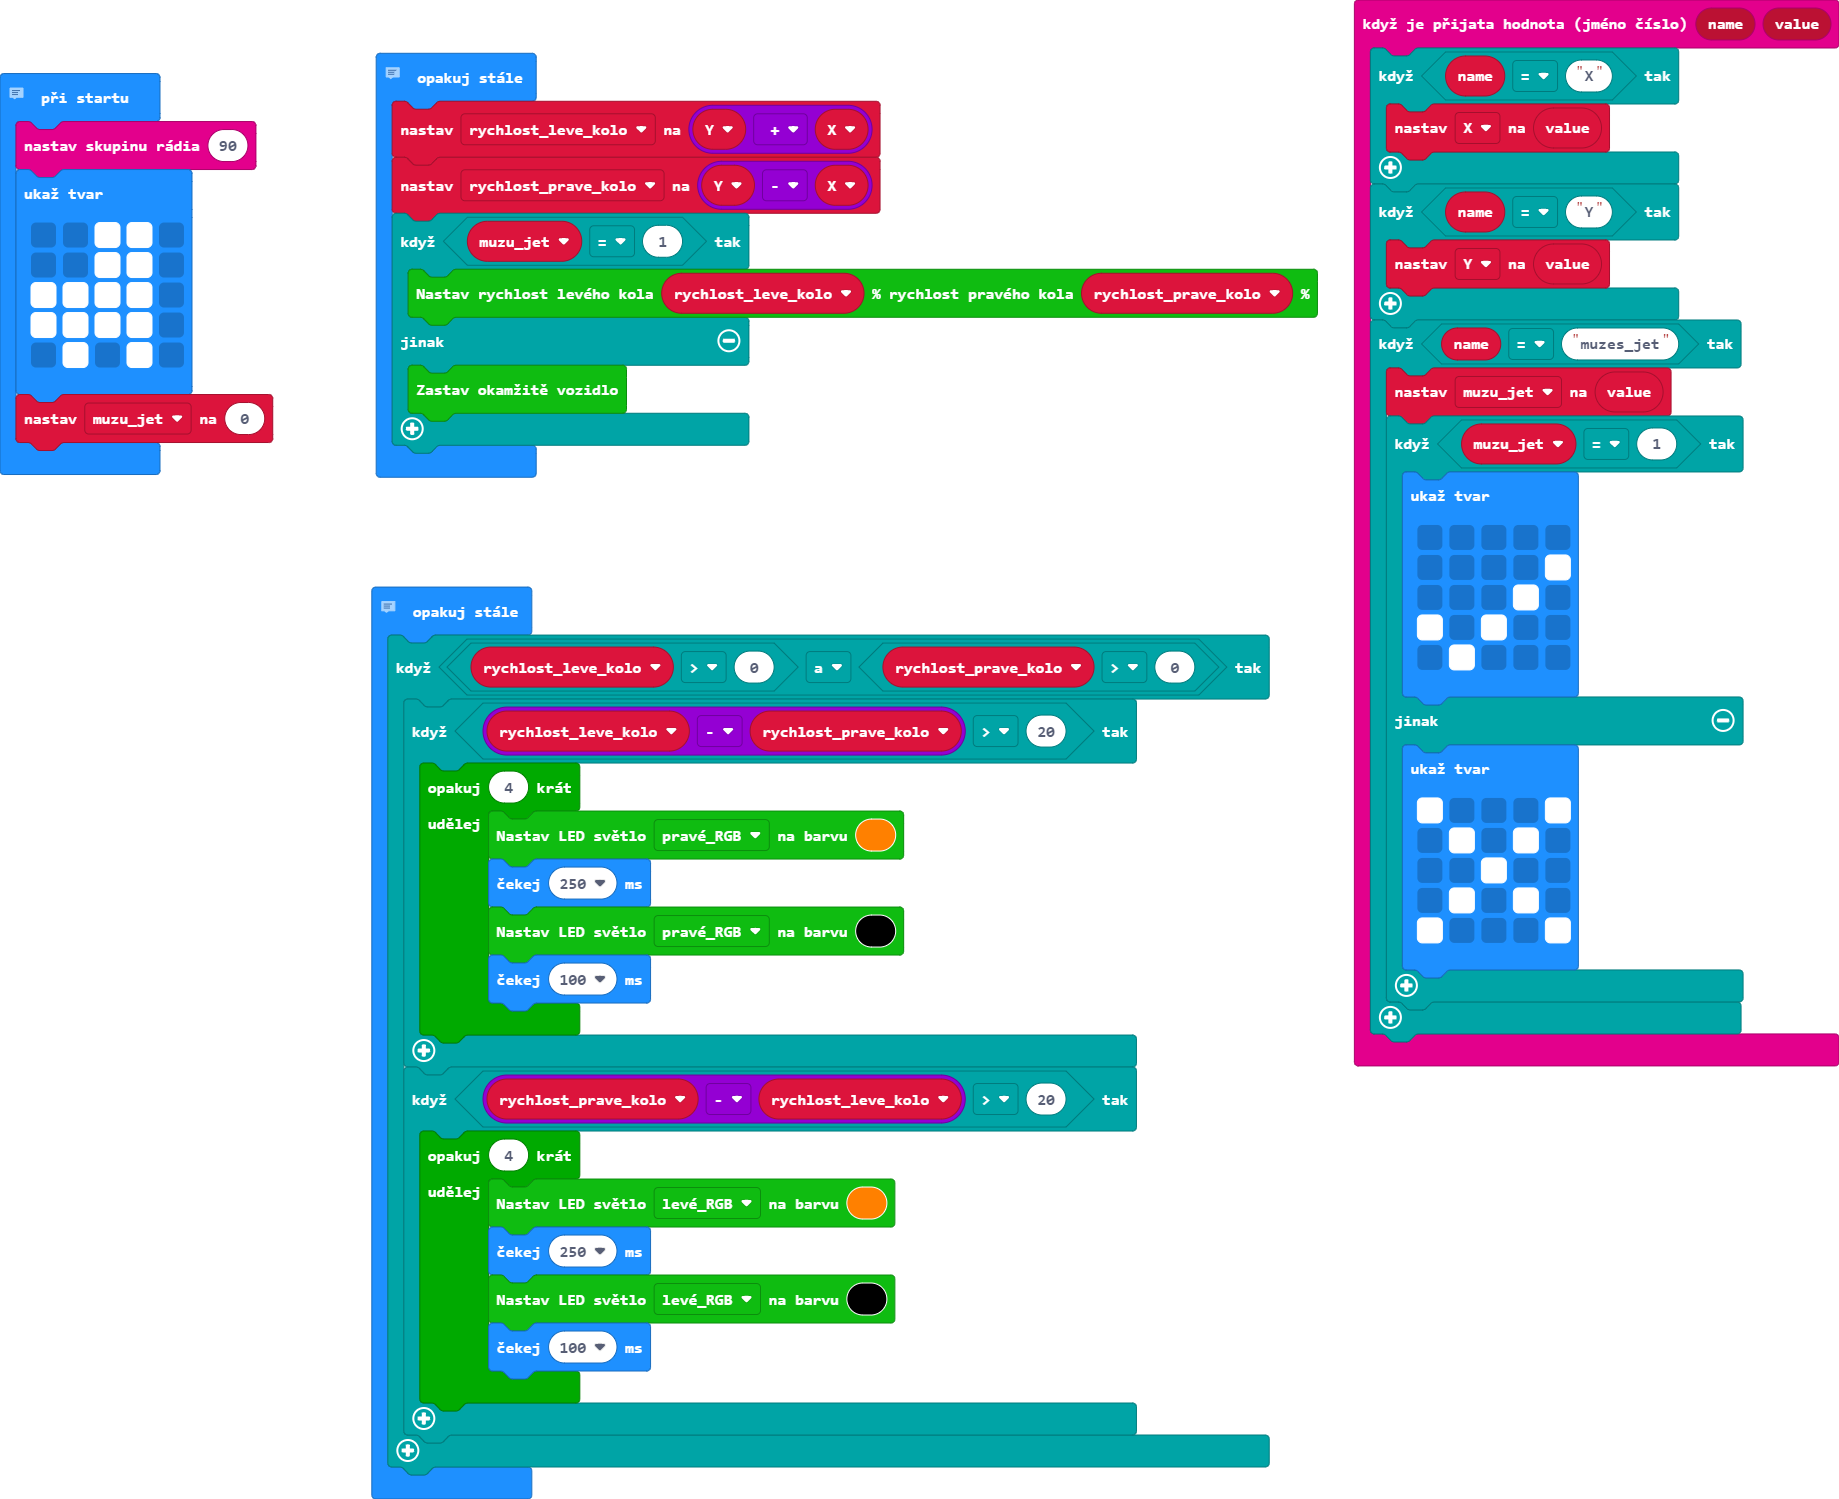
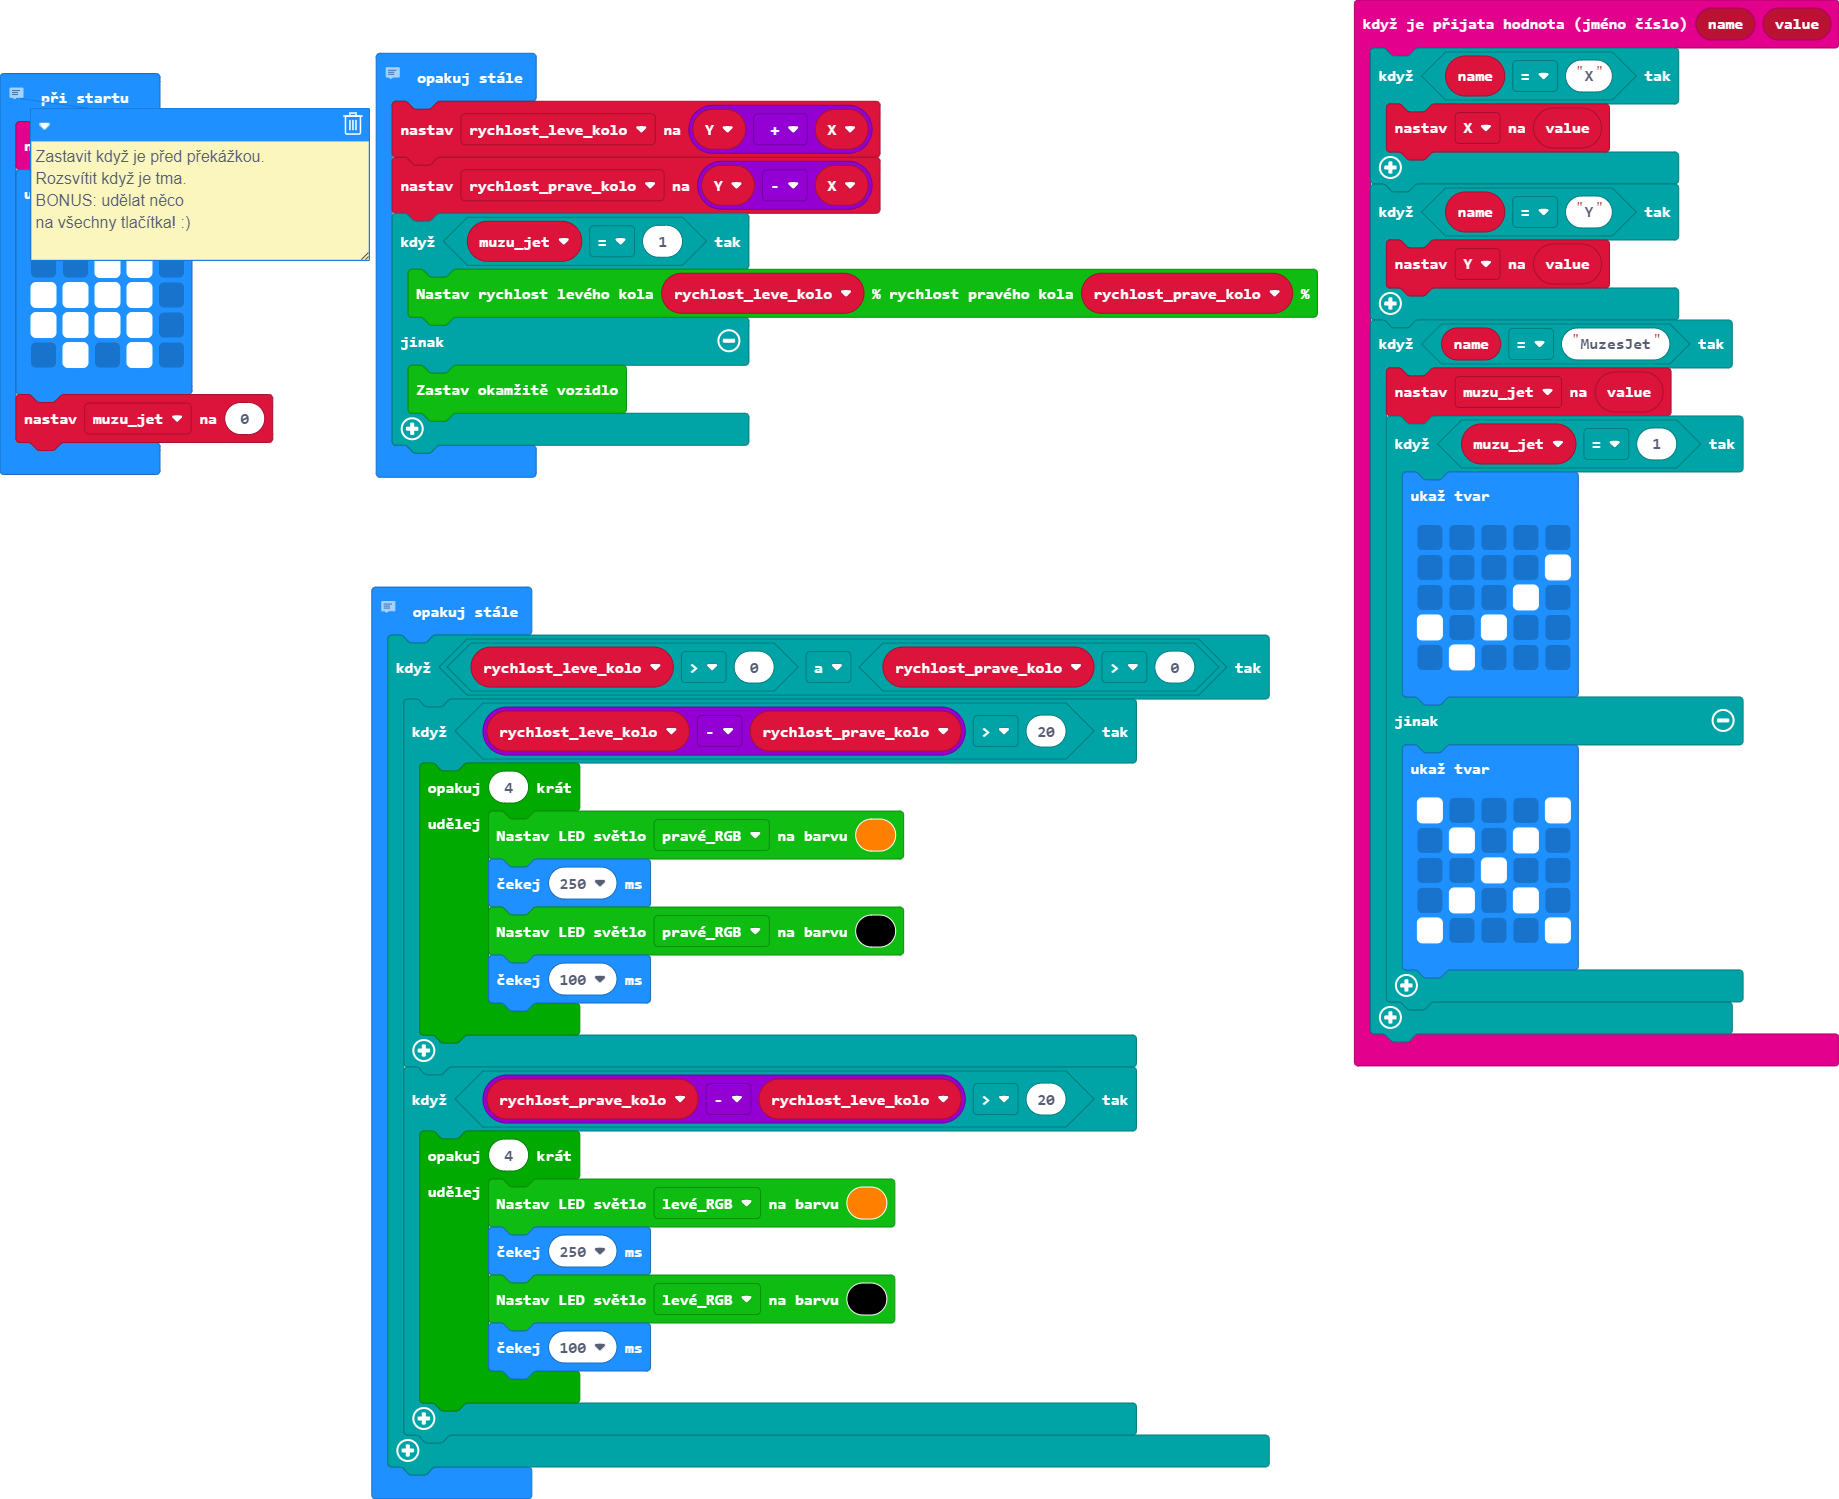
Aktualizovat main.blocks, main.ts

Changed region(s): [[0.0, 0.0614, 0.217, 0.1841], [0.8989, 0.2148, 0.9608, 0.2455]]

diff --git a/main.ts b/main.ts
@@ -5,7 +5,7 @@ radio.onReceivedValue(function (name, value) {
     if (name == "Y") {
         Y = value
     }
-    if (name == "muzes_jet") {
+    if (name == "MuzesJet") {
         muzu_jet = value
         if (muzu_jet == 1) {
             basic.showLeds(`
@@ -26,7 +26,6 @@ radio.onReceivedValue(function (name, value) {
         }
     }
 })
-// Zastavit Cutie na tlačítko A.
 // Zastavit když je před překážkou.
 // Rozsvítit když je tma.
 // BONUS: udělat něco 
